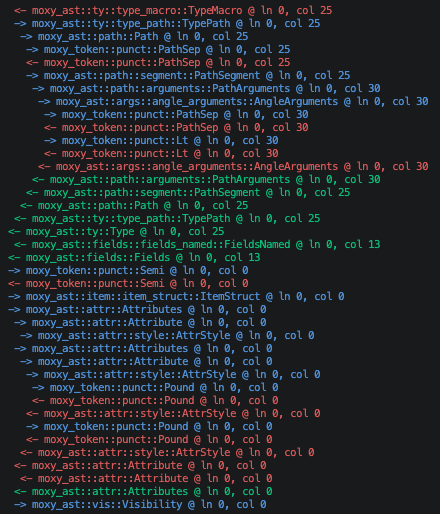
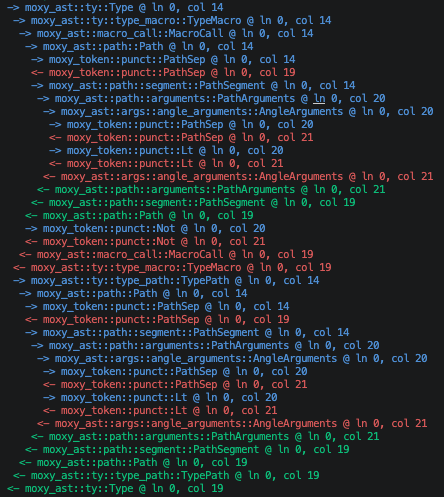
fix span of traces

diff --git a/crates/moxy-token/src/parser/stream.rs b/crates/moxy-token/src/parser/stream.rs
@@ -125,8 +125,8 @@ impl<'a> ParseStream<'a> {
                         " ".repeat(self.depth),
                         Ansi::Red,
                         name,
-                        self.span().start().line(),
-                        self.span().start().column(),
+                        self.span().end().line(),
+                        self.span().end().column(),
                         Ansi::Reset,
                     );
                 }
@@ -140,8 +140,8 @@ impl<'a> ParseStream<'a> {
                         " ".repeat(self.depth),
                         Ansi::Green,
                         name,
-                        self.span().start().line(),
-                        self.span().start().column(),
+                        self.span().end().line(),
+                        self.span().end().column(),
                         Ansi::Reset,
                     );
                 }
